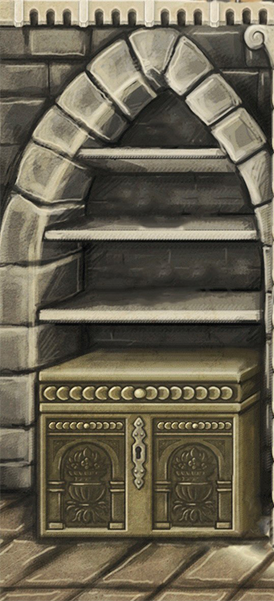
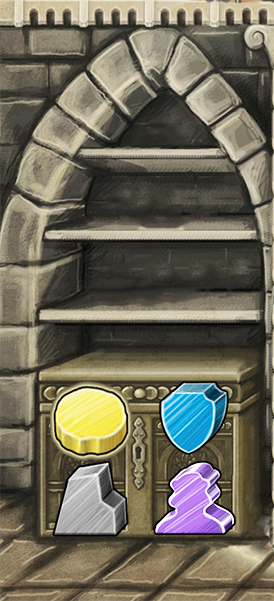
Strongbox and thing 6-june 16:39

Changed region(s): [[0.1752, 0.629, 0.4964, 0.8985], [0.5547, 0.629, 0.8759, 0.8985]]

diff --git a/src/main/java/it/polimi/ingsw/client/gui/Board.java b/src/main/java/it/polimi/ingsw/client/gui/Board.java
@@ -2,13 +2,14 @@ package it.polimi.ingsw.client.gui;
 
 import it.polimi.ingsw.client.modelSimplified.GameSimplified;
 import it.polimi.ingsw.client.modelSimplified.PlayerSimplified;
+import it.polimi.ingsw.client.modelSimplified.StrongboxSimplified;
+import it.polimi.ingsw.client.modelSimplified.WarehouseDepotSimplified;
 import it.polimi.ingsw.networking.message.actionMessages.MSG_ACTION_DISCARD_LEADERCARD;
 import it.polimi.ingsw.networking.message.updateMessages.MSG_UPD_Full;
 import it.polimi.ingsw.server.controller.GameManager;
 import it.polimi.ingsw.server.model.*;
 import it.polimi.ingsw.server.model.enumerators.Resource;
 import it.polimi.ingsw.server.model.marbles.MarketMarble;
-import it.polimi.ingsw.server.model.middles.Leaderboard;
 import it.polimi.ingsw.server.model.requirements.CardRequirements;
 import it.polimi.ingsw.server.model.requirements.ReqValue;
 import it.polimi.ingsw.server.model.requirements.ResourceRequirements;
@@ -22,10 +23,8 @@ import java.awt.*;
 import java.awt.event.ActionListener;
 import java.io.File;
 import java.io.IOException;
-import java.util.HashMap;
-import java.util.ArrayList;
+import java.util.*;
 import java.util.List;
-import java.util.Map;
 
 public class Board implements Runnable {
     CardLayout cardLayoutLeft;
@@ -343,6 +342,10 @@ public class Board implements Runnable {
                 myLeaderCardsPanel.update();
                 playersRecapPanel.update();
                 devDeck_board_card_panel.update();
+                for(PlayerSimplified player : Ark.game.getPlayerList())
+                {
+                    centralLeftPanel.update(player.getNickname());
+                }
             }
 
             lastRightCard = Ark.nickname;
@@ -1005,6 +1008,9 @@ public class Board implements Runnable {
     //CENTRAL LEFT PANEL <- CARDLAYOUTLEFT
     class CentralLeftPanel extends JPanel {
         private Image image;
+
+        java.util.List<DepotPanel> depotPanelList;
+
         public CentralLeftPanel()
         {
             try {
@@ -1013,18 +1019,23 @@ public class Board implements Runnable {
 
             cardLayoutLeft = new CardLayout();
             this.setLayout(cardLayoutLeft);
-            this.setLayout(new GridBagLayout()); //delete this
 
+            depotPanelList = new ArrayList<>();
 
-            //java.util.List<String> depotCards = Ark.game.getPlayerSimplifiedList().stream().map(PlayerSimplified::getPlayerNumber).map(x -> ""+x).collect(Collectors.toList());
-
-
-            JLabel el = new JLabel();
-            el.setText("");
-            GridBagConstraints c = new GridBagConstraints();
-            c.insets = new Insets(601,273, 0,0);
-            this.add(el, c);
+            for(PlayerSimplified player : Ark.game.getPlayerList())
+            {
+                DepotPanel depotPanel = new DepotPanel(player.getNickname());
+                this.add(depotPanel, player.getNickname());
+                depotPanelList.add(depotPanel);
+            }
         }
+
+        public void update(String name)
+        {
+            Optional<DepotPanel> result = depotPanelList.stream().filter(p -> p.panelName.equals(name)).findFirst();
+            result.ifPresent(DepotPanel::update);
+        }
+
         @Override
         protected void paintComponent(Graphics g) {
             super.paintComponent(g);
@@ -1033,12 +1044,282 @@ public class Board implements Runnable {
     }
 
     class DepotPanel extends JPanel {
+        private String panelName;
+
+        JLabel shelf1;
+        JLabel[] shelf2;
+        JLabel[] shelf3;
+
+        JLabel[] strongbox; //coin shield stone servant
+
         //many labels
-        public DepotPanel() {
+        public DepotPanel(String panelName) {
+            super();
+            this.panelName = panelName;
             this.setOpaque(false);
             this.setLayout(new GridBagLayout());
+            shelf1 = new JLabel();
+            shelf2 = new JLabel[2];
+            shelf2[0] = new JLabel(); shelf2[1] = new JLabel();
+            shelf3 = new JLabel[3];
+            shelf3[0] = new JLabel(); shelf3[1] = new JLabel(); shelf3[2] = new JLabel();
+
+            GridBagConstraints c;
+
+            addPadding(this,601,273,5,6 );
+
+            c = new GridBagConstraints();
+            c.gridx = 1;
+            c.gridy = 1;
+            c.weightx = 0.2;
+            c.weighty = 0.2;
+            c.gridwidth = 2;
+            c.anchor = GridBagConstraints.PAGE_START;
+            c.insets = new Insets(105,60,0,0);
+            this.add(shelf1, c);
+
+            c = new GridBagConstraints();
+            c.gridx = 1;
+            c.gridy = 2;
+            c.weightx = 0.5;
+            c.weighty = 0.2;
+            c.gridwidth = 1;
+            c.anchor = GridBagConstraints.FIRST_LINE_END;
+            c.insets = new Insets(30,70,0,8);
+            this.add(shelf2[0], c);
+
+            c = new GridBagConstraints();
+            c.gridx = 2;
+            c.gridy = 2;
+            c.weightx = 0.5;
+            c.weighty = 0.2;
+            c.gridwidth = 1;
+            c.anchor = GridBagConstraints.FIRST_LINE_START;
+            c.insets = new Insets(30,0,0,0);
+            this.add(shelf2[1], c);
+
+            JPanel thirdshelfPanel = new JPanel(new GridBagLayout());
+            thirdshelfPanel.setOpaque(false);
+            c = new GridBagConstraints();
+            c.gridx = 0;
+            c.gridy = 0;
+            c.weightx = 0.5;
+            c.weighty = 0.5;
+            c.gridwidth = 1;
+            c.anchor = GridBagConstraints.FIRST_LINE_END;
+            c.insets = new Insets(0,60,0,8);
+            thirdshelfPanel.add(shelf3[0], c);
+
+            c = new GridBagConstraints();
+            c.gridx = 1;
+            c.gridy = 0;
+            c.weightx = 0.5;
+            c.weighty = 0.5;
+            c.gridwidth = 1;
+            c.anchor = GridBagConstraints.PAGE_START;
+            c.insets = new Insets(0,0,0,8);
+            thirdshelfPanel.add(shelf3[1], c);
+
+            c = new GridBagConstraints();
+            c.gridx = 2;
+            c.gridy = 0;
+            c.weightx = 0.5;
+            c.weighty = 0.5;
+            c.gridwidth = 1;
+            c.anchor = GridBagConstraints.FIRST_LINE_START;
+            c.insets = new Insets(0,0,0,0);
+            thirdshelfPanel.add(shelf3[2], c);
+
+            c = new GridBagConstraints();
+            c.gridx = 1;
+            c.gridy = 3;
+            c.weightx = 0.5;
+            c.weighty = 0.5;
+            c.gridwidth = 2;
+            c.anchor = GridBagConstraints.PAGE_START;
+            c.insets = new Insets(30,0,0,0);
+            this.add(thirdshelfPanel, c);
+
+            JLabel[] strongboxIconLabel  = new JLabel[4];
+            strongbox = new JLabel[4];
+            ImageIcon icon;
+
+            {
+                JPanel coinPanel = new JPanel(new GridBagLayout());
+                coinPanel.setOpaque(false);
+
+                icon = scaleImage(new ImageIcon(Resource.COIN.getPathLittle()), 60);
+                strongboxIconLabel[0] = new JLabel();
+                strongboxIconLabel[0].setIcon(icon);
+                c = new GridBagConstraints();
+                c.gridx = 0;
+                c.gridy = 0;
+                c.weighty = 0.1;
+                c.anchor = GridBagConstraints.PAGE_START;
+                coinPanel.add(strongboxIconLabel[0], c);
+
+                strongbox[0] = new JLabel(); //coin //shield //stone //servant
+                strongbox[0].setFont(new Font(PAP, Font.BOLD, 20));
+                c = new GridBagConstraints();
+                c.gridx = 0;
+                c.gridy = 1;
+                c.weighty = 0.1;
+                c.anchor = GridBagConstraints.PAGE_START;
+                coinPanel.add(strongbox[0], c);
+
+                c = new GridBagConstraints();
+                c.gridx = 1;
+                c.gridy = 4;
+                c.weightx = 0.5;
+                c.weighty = 0.1;
+                c.gridwidth = 1;
+                c.anchor = GridBagConstraints.FIRST_LINE_END;
+                c.insets = new Insets(50, 0, 0, 54);
+                this.add(coinPanel, c);
+            } //coin
+            {
+                JPanel shieldPanel = new JPanel(new GridBagLayout());
+                shieldPanel.setOpaque(false);
+
+                icon = scaleImage(new ImageIcon(Resource.SHIELD.getPathLittle()), 60);
+                strongboxIconLabel[1] = new JLabel();
+                strongboxIconLabel[1].setIcon(icon);
+                c = new GridBagConstraints();
+                c.gridx = 0;
+                c.gridy = 0;
+                c.weighty = 0.1;
+                c.anchor = GridBagConstraints.PAGE_START;
+                shieldPanel.add(strongboxIconLabel[1], c);
+
+                strongbox[1] = new JLabel();  //shield //stone //servant
+                strongbox[1].setFont(new Font(PAP, Font.BOLD, 20));
+                c = new GridBagConstraints();
+                c.gridx = 0;
+                c.gridy = 1;
+                c.weighty = 0.1;
+                c.anchor = GridBagConstraints.PAGE_START;
+                shieldPanel.add(strongbox[1], c);
+
+                c = new GridBagConstraints();
+                c.gridx = 2;
+                c.gridy = 4;
+                c.weightx = 0.5;
+                c.weighty = 0.1;
+                c.gridwidth = 1;
+                c.anchor = GridBagConstraints.FIRST_LINE_START;
+                c.insets = new Insets(50, 0, 0, 10);
+                this.add(shieldPanel, c);
+            } //shield
+            {
+                JPanel stonePanel = new JPanel(new GridBagLayout());
+                stonePanel.setOpaque(false);
+
+                icon = scaleImage(new ImageIcon(Resource.STONE.getPathLittle()),60);
+                strongboxIconLabel[2] = new JLabel();
+                strongboxIconLabel[2].setIcon(icon);
+                c = new GridBagConstraints();
+                c.gridx = 0;
+                c.gridy = 0;
+                c.weighty = 0.1;
+                c.anchor = GridBagConstraints.PAGE_START;
+                stonePanel.add(strongboxIconLabel[2], c);
+
+                strongbox[2] = new JLabel();  //stone //servant
+                strongbox[2].setFont(new Font(PAP, Font.BOLD, 20));
+                c = new GridBagConstraints();
+                c.gridx = 0;
+                c.gridy = 1;
+                c.weighty = 0.1;
+                c.anchor = GridBagConstraints.PAGE_START;
+                stonePanel.add(strongbox[2], c);
+
+                c = new GridBagConstraints();
+                c.gridx = 1;
+                c.gridy = 5;
+                c.weightx = 0.5;
+                c.weighty = 0.5;
+                c.gridwidth = 1;
+                c.anchor = GridBagConstraints.FIRST_LINE_END;
+                c.insets = new Insets(0,0,55,54);
+                this.add(stonePanel, c);
+            } //stone
+            {
+                JPanel servantPanel = new JPanel(new GridBagLayout());
+                servantPanel.setOpaque(false);
+
+                icon = scaleImage(new ImageIcon(Resource.SERVANT.getPathLittle()),60);
+                strongboxIconLabel[3] = new JLabel();
+                strongboxIconLabel[3].setIcon(icon);
+                c = new GridBagConstraints();
+                c.gridx = 0;
+                c.gridy = 0;
+                c.weighty = 0.1;
+                c.anchor = GridBagConstraints.PAGE_START;
+                servantPanel.add(strongboxIconLabel[3], c);
+
+                strongbox[3] = new JLabel();  //servant
+                strongbox[3].setFont(new Font(PAP, Font.BOLD, 20));
+                c = new GridBagConstraints();
+                c.gridx = 0;
+                c.gridy = 1;
+                c.weighty = 0.1;
+                c.anchor = GridBagConstraints.PAGE_START;
+                servantPanel.add(strongbox[3], c);
+
+                c = new GridBagConstraints();
+                c.gridx = 2;
+                c.gridy = 5;
+                c.weightx = 0.5;
+                c.weighty = 0.5;
+                c.gridwidth = 1;
+                c.anchor = GridBagConstraints.FIRST_LINE_START;
+                c.insets = new Insets(0,0,55,10);
+                this.add(servantPanel, c);
 
 
+            } //servant
+
+        }
+
+        public void update()
+        {
+            PlayerSimplified playerRef = Ark.game.getPlayerRef(this.panelName);
+            WarehouseDepotSimplified depotRef = playerRef.getWarehouseDepot();
+            StrongboxSimplified strongboxRef = playerRef.getStrongbox();
+
+            Resource shelf1r = depotRef.getShelf1();
+            Resource[] shelf2r = depotRef.getShelf2();
+            Resource[] shelf3r = depotRef.getShelf3();
+
+            this.shelf1.setIcon(scaleImage(new ImageIcon(shelf1r.getPathLittle()),50));
+            this.shelf2[0].setIcon(scaleImage(new ImageIcon(shelf2r[0].getPathLittle()),50));
+            this.shelf2[1].setIcon(scaleImage(new ImageIcon(shelf2r[1].getPathLittle()),50));
+            this.shelf3[0].setIcon(scaleImage(new ImageIcon(shelf3r[0].getPathLittle()),50));
+            this.shelf3[1].setIcon(scaleImage(new ImageIcon(shelf3r[1].getPathLittle()),50));
+            this.shelf3[2].setIcon(scaleImage(new ImageIcon(shelf3r[2].getPathLittle()),50));
+
+            Integer num;
+
+            num = strongboxRef.getQuantity(Resource.COIN);
+            if(num == null)
+                this.strongbox[0].setText("0");
+            else
+                this.strongbox[0].setText(""+num);
+            num = strongboxRef.getQuantity(Resource.SHIELD);
+            if(num == null)
+                this.strongbox[1].setText("0");
+            else
+                this.strongbox[1].setText(""+num);
+            num = strongboxRef.getQuantity(Resource.STONE);
+            if(num == null)
+                this.strongbox[2].setText("0");
+            else
+                this.strongbox[2].setText(""+num);
+            num = strongboxRef.getQuantity(Resource.SERVANT);
+            if(num == null)
+                this.strongbox[3].setText("0");
+            else
+                this.strongbox[3].setText(""+num);
         }
     }
 
@@ -1314,10 +1595,12 @@ public class Board implements Runnable {
 
     ActionListener show_DevDeck_Button_actionListener = e -> {
         cardLayoutRight.show(centralRightPanel, DEVDECK);
+        cardLayoutLeft.show(centralLeftPanel,Ark.nickname);
     };
 
     ActionListener show_Market_Button_actionListener = e -> {
         cardLayoutRight.show(centralRightPanel, MARKET);
+        cardLayoutLeft.show(centralLeftPanel,Ark.nickname);
     };
 
     ActionListener activate_LeaderCards_Button_actionListener = e -> {
